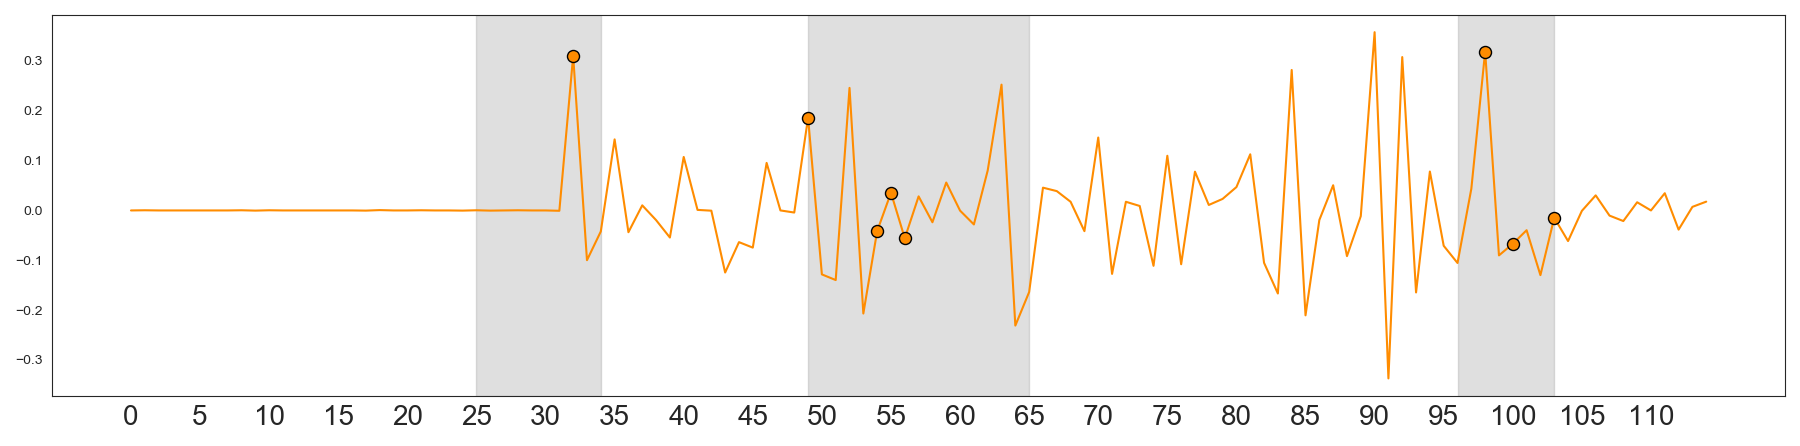
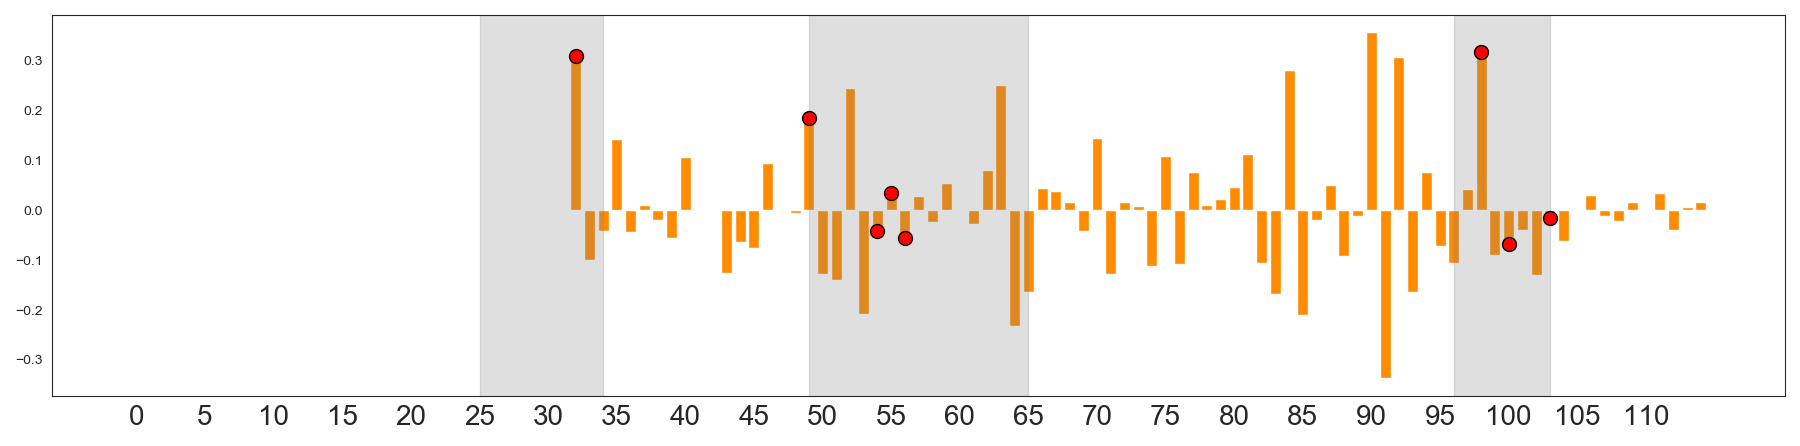
divergence barplots

Changed region(s): [[0.0622, 0.0874, 0.9644, 0.8453], [0.5289, 0.9036, 0.9333, 0.9619], [0.0622, 0.9036, 0.4356, 0.9619]]

diff --git a/Emily Code/8.4.20_node_identification.py b/Emily Code/8.4.20_node_identification.py
@@ -326,8 +326,8 @@ plt.tight_layout()
 #%%
 xticks = np.arange(0,115,5)
 fig, ax = plt.subplots(figsize = (18,4.5))
-ax.plot(pval_849_diff)
-ax.scatter(mutation_x_diff, [pval_849_diff[i-1] for i in mutation_x], s = 75, c = 'blue', edgecolor = 'k', zorder = 25)
+ax.bar(np.arange(0,115), pval_849_diff)
+ax.scatter(mutation_x_diff, [pval_849_diff[i-1] for i in mutation_x], s = 100, c = 'red', edgecolor = 'k', zorder = 25)
 ax.axvspan(25, 34, alpha = 0.25, color = 'grey')
 ax.axvspan(49, 65, alpha = 0.25, color='grey')
 ax.axvspan(96, 103, alpha = 0.25, color='grey')
@@ -336,8 +336,8 @@ plt.tight_layout()
 
 
 fig, ax = plt.subplots(figsize = (18,4.5))
-ax.plot(pval_1146_diff, c = 'darkorange')
-ax.scatter(mutation_x_diff, [pval_1146_diff[i-1] for i in mutation_x], s = 75, c = 'darkorange', edgecolor = 'k', zorder = 25)
+ax.bar(np.arange(0,115), pval_1146_diff, color = 'darkorange')
+ax.scatter(mutation_x_diff, [pval_1146_diff[i-1] for i in mutation_x], s = 100, c = 'red', edgecolor = 'k', zorder = 25)
 ax.axvspan(25, 34, alpha = 0.25, color = 'grey')
 ax.axvspan(49, 65, alpha = 0.25, color='grey')
 ax.axvspan(96, 103, alpha = 0.25, color='grey')
@@ -346,8 +346,8 @@ plt.tight_layout()
 
 
 fig, ax = plt.subplots(figsize = (18,4.5))
-ax.plot(pval_1899_diff, c = 'green')
-ax.scatter(mutation_x_diff, [pval_1899_diff[i-1] for i in mutation_x], s = 75, c = 'green', edgecolor = 'k', zorder = 25)
+ax.bar(np.arange(0,115), pval_1899_diff, color = 'green')
+ax.scatter(mutation_x_diff, [pval_1899_diff[i-1] for i in mutation_x], s = 100, c = 'red', edgecolor = 'k', zorder = 25)
 ax.axvspan(25, 34, alpha = 0.25, color = 'grey')
 ax.axvspan(49, 65, alpha = 0.25, color='grey')
 ax.axvspan(96, 103, alpha = 0.25, color='grey')
